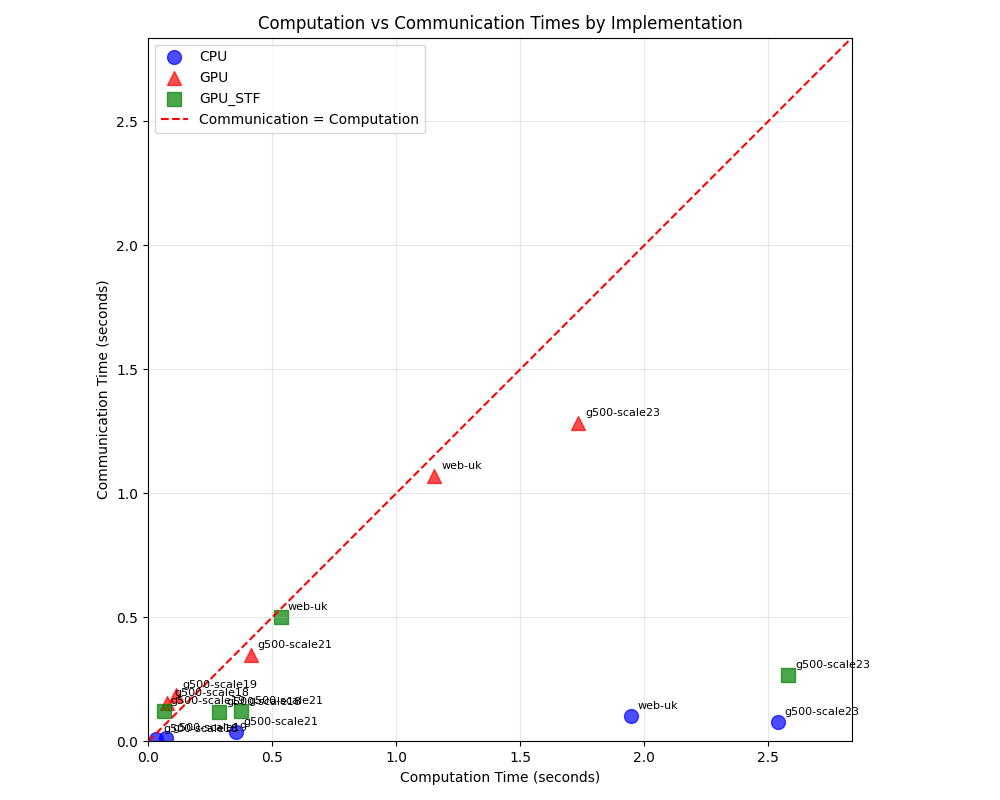
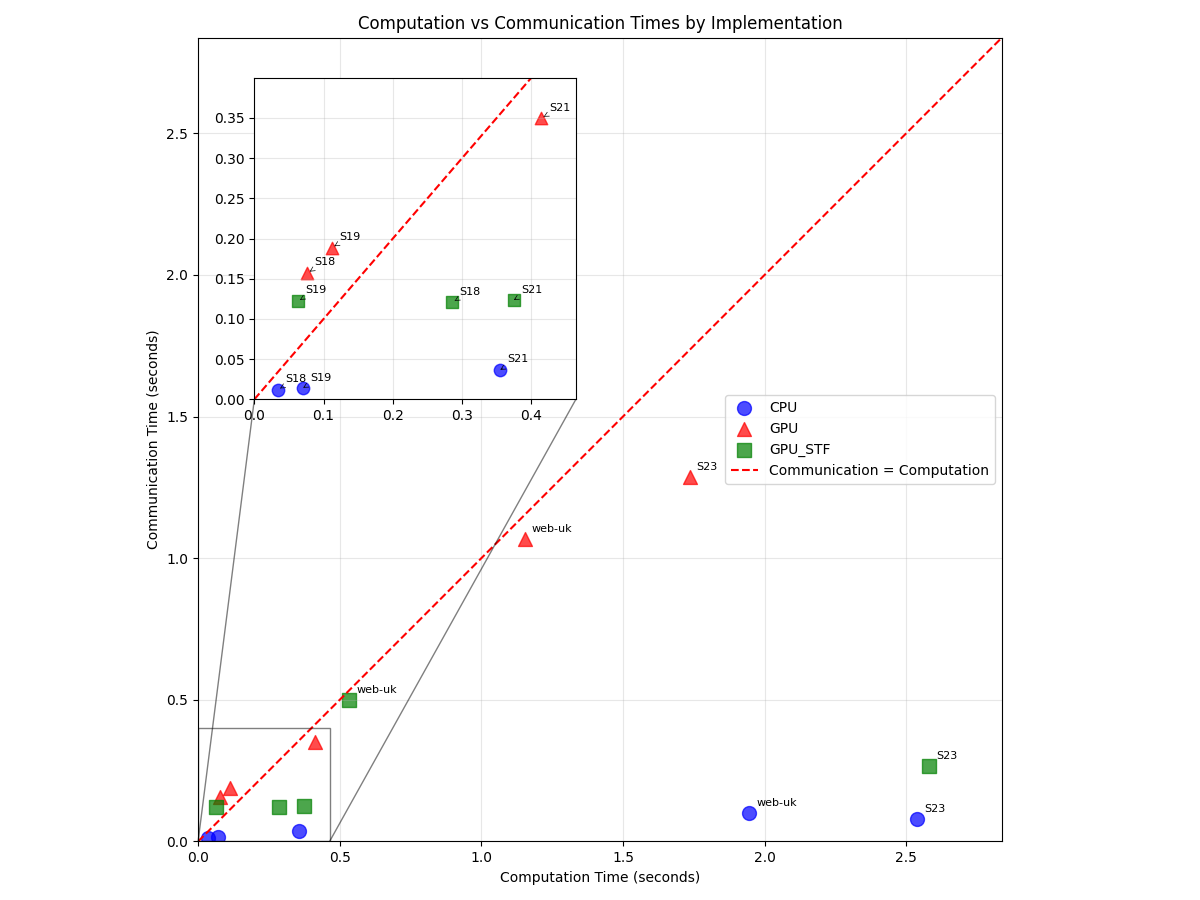
works on readme a bit more and adds better plots again

diff --git a/benchmarking/plotting.py b/benchmarking/plotting.py
@@ -76,50 +76,122 @@ plt.savefig(os.path.join(PLOT_DIR, 'scaling_vertices.png'))
 plt.close()
 
 # --------------- Computation vs Communication Times ---------------
-plt.figure(figsize=(10, 8))
+fig, ax = plt.subplots(figsize=(12, 9))
+
+# Store point coordinates for better annotation placement
+point_coords = []
+
+# Function to simplify dataset names for better readability
+def simplify_dataset_name(name):
+    name = name.strip()
+    if 'g500-scale' in name:
+        # Extract scale number and format as 'S##'
+        scale_num = name.split('g500-scale')[1]
+        return f'S{scale_num}'
+    return name  # Return original name for non-g500 datasets like web-uk
 
 # Create a scatter plot of computation vs communication times
 for impl in implementations:
     impl_df = df[df['implementation'] == impl]
     
     # Plot each dataset as a point
-    plt.scatter(
+    points = ax.scatter(
         impl_df['computation_time'], 
         impl_df['communication_time'],
         s=100,  # marker size
         label=impl,
         alpha=0.7,
-        marker=impl_markers.get(impl, 'o'),  # use specific markers for each implementation
-        color=impl_colors.get(impl, 'blue')  # use specific colors for each implementation
+        marker=impl_markers.get(impl, 'o'),
+        color=impl_colors.get(impl, 'blue')
     )
     
-    # Add dataset labels to each point
+    # Store points and dataset info for later annotation with simplified names
     for _, row in impl_df.iterrows():
-        dataset_name = row['dataset'].strip()  # Strip any whitespace
-        plt.annotate(
-            dataset_name,
-            (row['computation_time'], row['communication_time']),
+        point_coords.append({
+            'x': row['computation_time'],
+            'y': row['communication_time'],
+            'dataset': simplify_dataset_name(row['dataset'])
+        })
+
+# Find max value for equal axis scaling and diagonal line
+max_val = max(df['computation_time'].max(), df['communication_time'].max()) * 1.1
+ax.plot([0, max_val], [0, max_val], 'r--', label='Communication = Computation')
+
+# Set up main plot
+ax.set_xlabel('Computation Time (seconds)')
+ax.set_ylabel('Communication Time (seconds)')
+ax.set_title('Computation vs Communication Times by Implementation')
+ax.grid(True, alpha=0.3)
+ax.legend()
+
+# Fix the spacing issue between y-axis and x=0
+ax.axis('scaled')
+ax.set_xlim(0, max_val)
+ax.set_ylim(0, max_val)
+
+# Add an inset axes for the zoomed region
+# First, determine the cluster region bounds
+small_points = [p for p in point_coords if p['x'] < 0.5 and p['y'] < 0.5]
+if small_points:
+    x_min = max(0, min(p['x'] for p in small_points) - 0.05)
+    x_max = max(p['x'] for p in small_points) + 0.05
+    y_min = max(0, min(p['y'] for p in small_points) - 0.05)
+    y_max = max(p['y'] for p in small_points) + 0.05
+    
+    # Create inset axes in the top left corner instead of bottom right
+    axins = ax.inset_axes([0.07, 0.55, 0.4, 0.4])
+    
+    # Plot the same data in the inset
+    for impl in implementations:
+        impl_df = df[df['implementation'] == impl]
+        axins.scatter(
+            impl_df['computation_time'], 
+            impl_df['communication_time'],
+            s=80,
+            label=impl,
+            alpha=0.7,
+            marker=impl_markers.get(impl, 'o'),
+            color=impl_colors.get(impl, 'blue')
+        )
+    
+    # Add annotations in the inset with better spacing
+    for i, point in enumerate(small_points):
+        # Calculate text offsets to avoid overlap
+        offset_x = 0.01 * (i % 3)  # Vary x offset based on point index
+        offset_y = 0.01 * (i % 5)  # Vary y offset based on point index
+        
+        axins.annotate(
+            point['dataset'],
+            (point['x'], point['y']),
+            xytext=(5 + offset_x*30, 5 + offset_y*30),
+            textcoords='offset points',
+            fontsize=8,
+            arrowprops=dict(arrowstyle='->', lw=0.5)
+        )
+    
+    # Set the limits for the inset axes
+    axins.set_xlim(x_min, x_max)
+    axins.set_ylim(y_min, y_max)
+    axins.grid(True, alpha=0.3)
+    
+    # Draw lines connecting the zoomed region with the inset
+    ax.indicate_inset_zoom(axins, edgecolor="black")
+    
+    # Add diagonal line in the inset
+    axins.plot([x_min, x_max], [x_min, x_max], 'r--')
+
+# Add annotations to the main plot for non-clustered points
+for point in point_coords:
+    # Only annotate points outside the zoomed region
+    if small_points and (point['x'] > x_max or point['y'] > y_max):
+        ax.annotate(
+            point['dataset'],
+            (point['x'], point['y']),
             xytext=(5, 5),
             textcoords='offset points',
             fontsize=8
         )
 
-# Find max value for equal axis scaling and diagonal line
-max_val = max(df['computation_time'].max(), df['communication_time'].max()) * 1.1
-plt.plot([0, max_val], [0, max_val], 'r--', label='Communication = Computation')
-
-plt.xlabel('Computation Time (seconds)')
-plt.ylabel('Communication Time (seconds)')
-plt.title('Computation vs Communication Times by Implementation')
-plt.grid(True, alpha=0.3)
-plt.legend()
-
-# Fix the spacing issue between y-axis and x=0
-plt.axis('scaled')  # Use 'scaled' instead of 'equal'
-plt.xlim(0, max_val)
-plt.ylim(0, max_val)
-
-# Add a tight_layout with appropriate padding
 plt.tight_layout(pad=1.1)
 plt.savefig(os.path.join(PLOT_DIR, 'computation_vs_communication.png'))
 plt.close()
